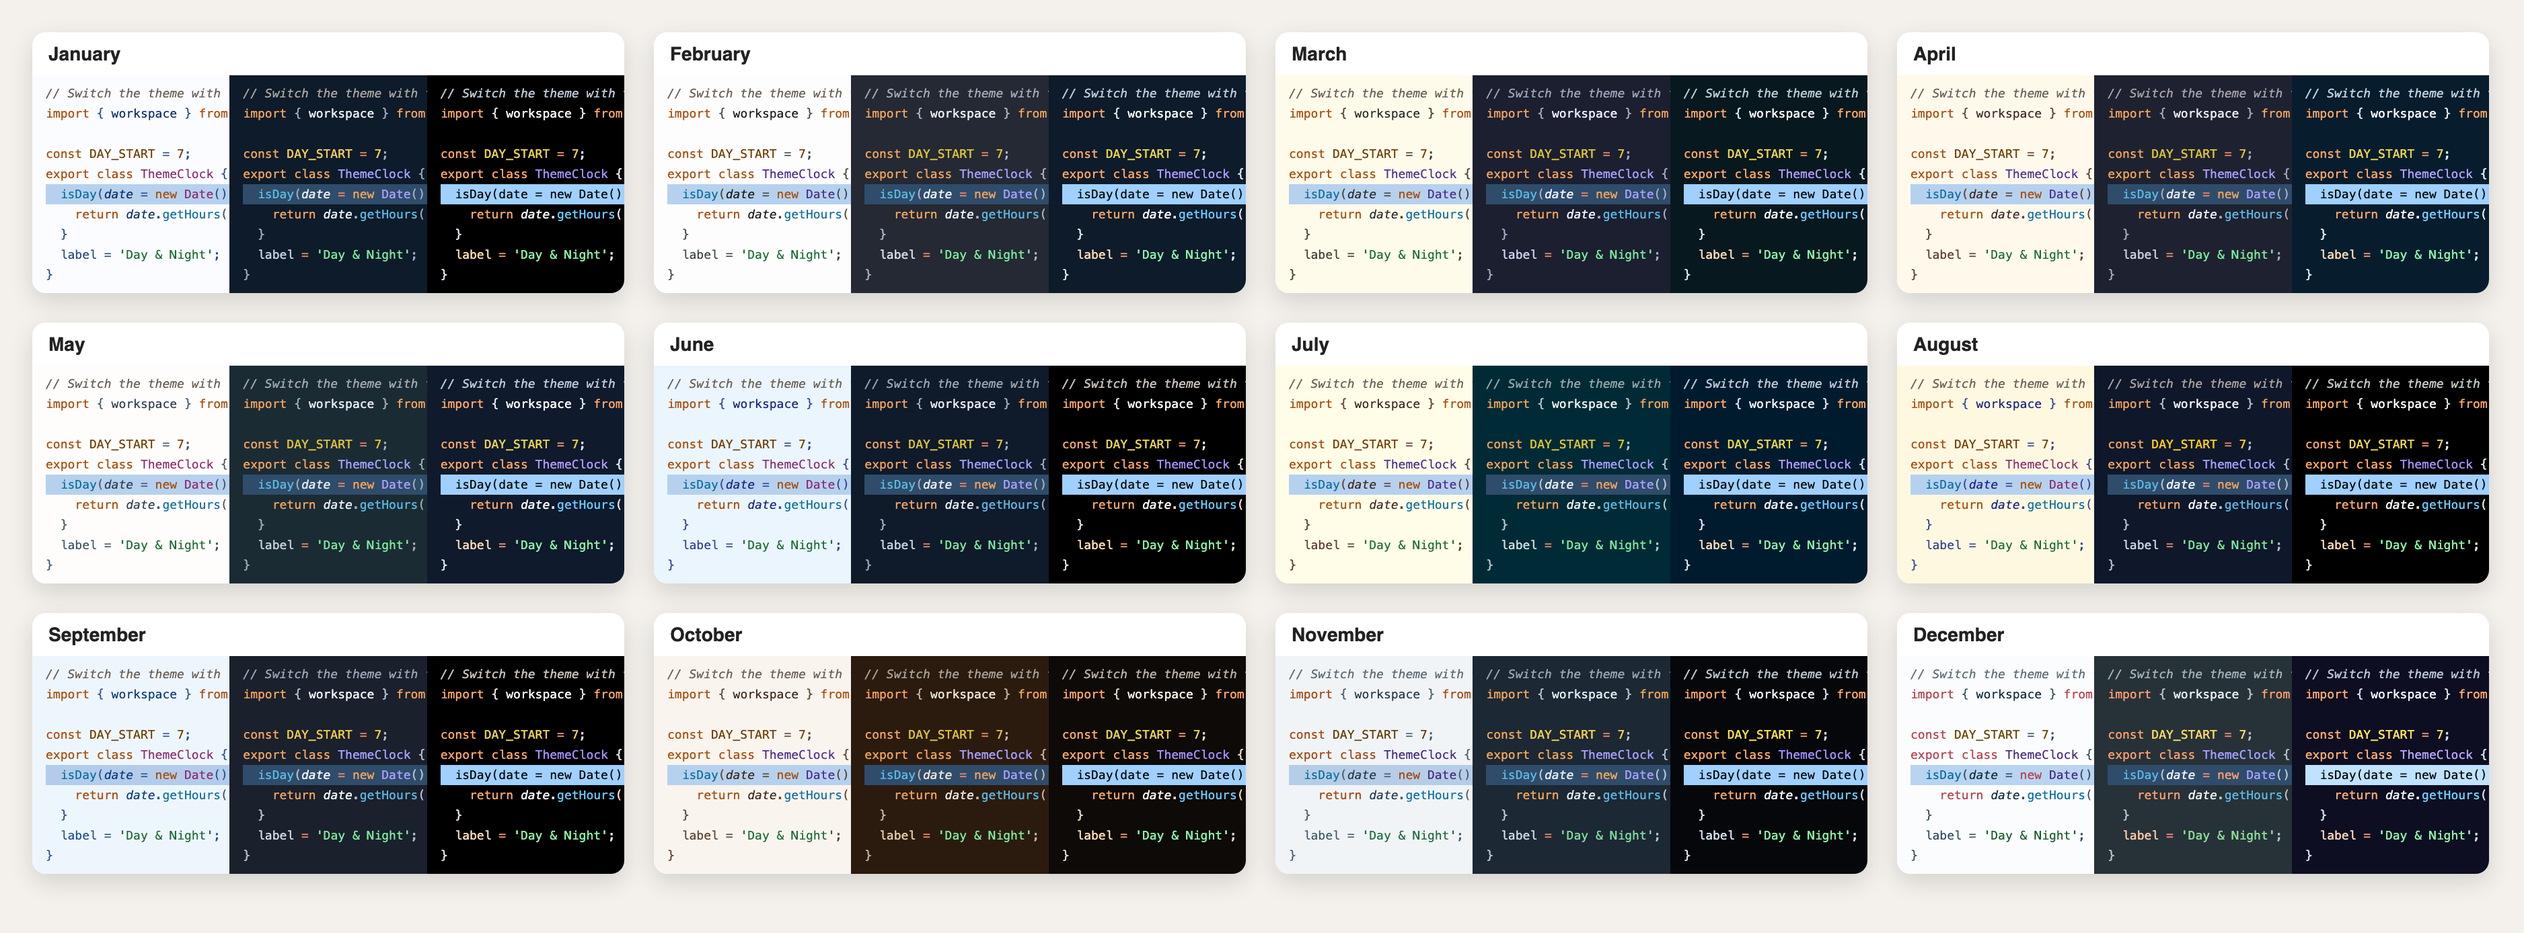
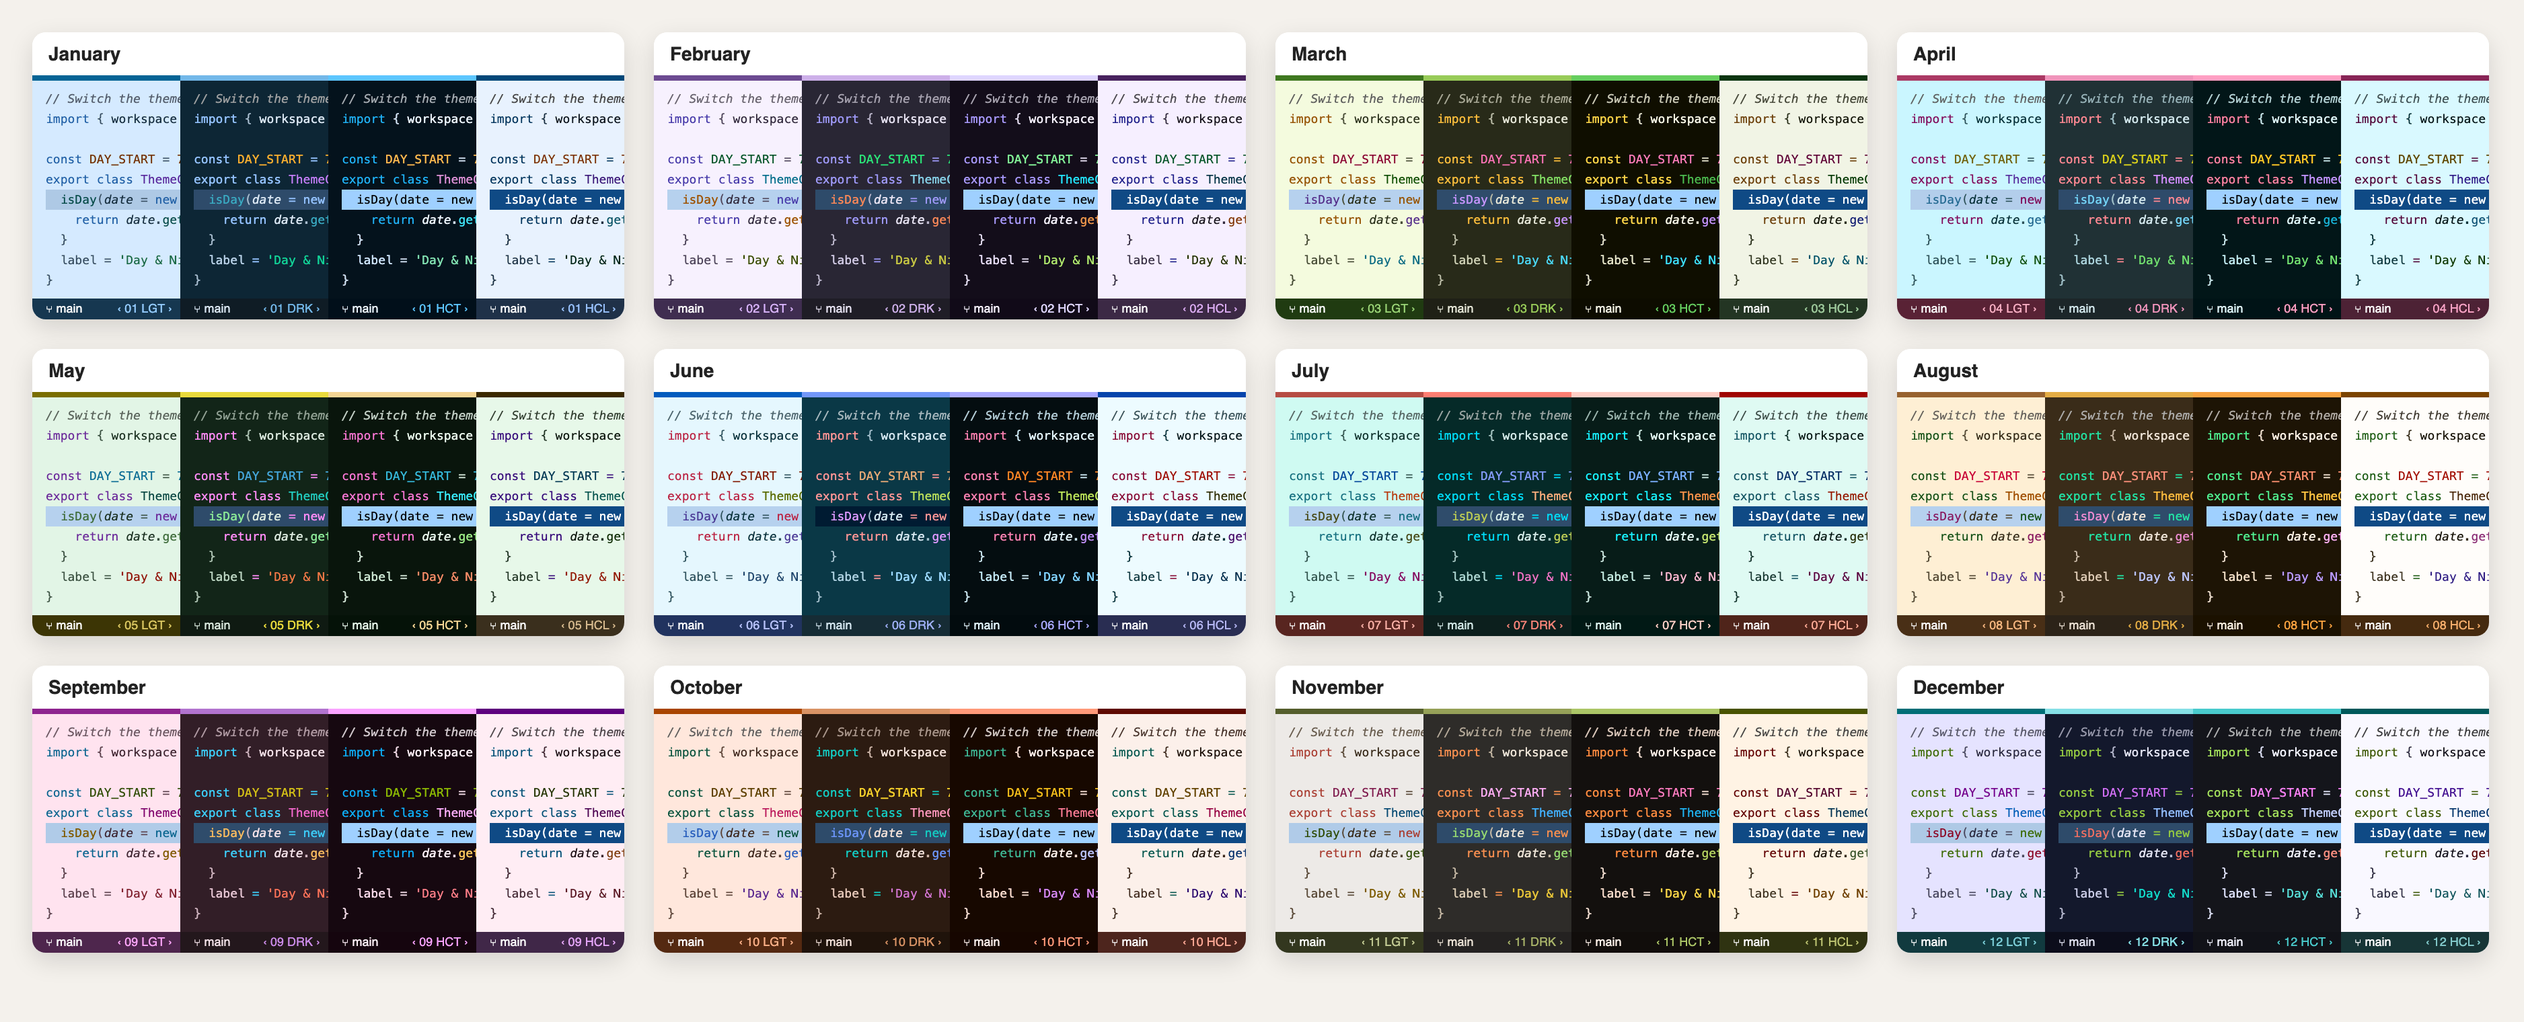
DOCS: README images with the new look
- hero.png and year.png regenerated from the final themes, with High Contrast Light
- The status bar button in the images matches the extension: ‹ 10 LGT ›
- Image descriptions updated in the README and its 9 translations: 48 themes, 4 variants

Refs #33

diff --git a/scripts/themes/preview.py b/scripts/themes/preview.py
@@ -130,7 +130,7 @@ def window_html(month, variant, variant_file, label):
     </div>
   </div>
   <div class=status style="background:{c['statusBar.background']};color:{c['statusBar.foreground']};border-top:1px solid {c['statusBar.border']}">
-    <span>⑂ main</span><span>⚠ 0 ✕ 1</span><span class=right>◐ {STATUS[variant]}</span>
+    <span>⑂ main</span><span>⚠ 0 ✕ 1</span><span class=right style="color:{c['365DayNight.statusBarButton']}">‹ {month:02d} {STATUS[variant]} ›</span>
   </div>
 </div>"""
 
@@ -199,7 +199,7 @@ def year():
             strips.append(f"<div class=variant style=\"border-top:4px solid {c['activityBarBadge.background']}\">"
                           f"<div class=snippet style=\"background:{c['editor.background']}\">{code_html(theme, palette, compact=True)}</div>"
                           f"<div class=mini style=\"background:{c['statusBar.background']};color:{c['statusBar.foreground']}\">"
-                          f"⑂ main<span style=\"color:{c['365DayNight.statusBarButton']}\">◐ {m:02d} {STATUS[v]}</span></div></div>")
+                          f"⑂ main<span style=\"color:{c['365DayNight.statusBarButton']}\">‹ {m:02d} {STATUS[v]} ›</span></div></div>")
         tiles.append(f'<div class=tile><h3>{MONTHS[m - 1]}</h3><div class=strip>{"".join(strips)}</div></div>')
     shoot(f'<div class=grid style="grid-template-columns:repeat(4,440px)">{"".join(tiles)}</div>', 'year.png', 1876, 760)
 

diff --git a/docs/README_ru.md b/docs/README_ru.md
@@ -8,7 +8,7 @@
 
 *Читать на: [English](../README.md) · [Français](README_fr.md) · [Español](README_es.md) · [Deutsch](README_de.md) · [Português](README_pt.md) · [中文](README_zh.md) · [日本語](README_ja.md) · [हिंदी](README_hi.md) · [العربية](README_ar.md)*
 
-![Октябрьские темы — светлая, тёмная и высококонтрастная — в VS Code: проводник, вкладки, подсветка синтаксиса, выделение текста и строка состояния](https://raw.githubusercontent.com/mickaellherminez/365-daynight-vscode-theme-ext/main/assets/screenshots/hero.png)
+![Октябрьские темы — светлая, тёмная, высококонтрастная и светлая высококонтрастная — в VS Code: проводник, вкладки, подсветка синтаксиса, выделение текста и строка состояния](https://raw.githubusercontent.com/mickaellherminez/365-daynight-vscode-theme-ext/main/assets/screenshots/hero.png)
 
 ## Почему вам понравится
 
@@ -47,7 +47,7 @@ code --install-extension mickaellherminez.365-daynight-vscode-theme-ext
 
 ## 12 месяцев
 
-![Предпросмотр 36 тем: светлая, тёмная и высококонтрастная версия для каждого месяца с января по декабрь](https://raw.githubusercontent.com/mickaellherminez/365-daynight-vscode-theme-ext/main/assets/screenshots/year.png)
+![Предпросмотр 48 тем: светлая, тёмная, высококонтрастная и светлая высококонтрастная версия для каждого месяца с января по декабрь](https://raw.githubusercontent.com/mickaellherminez/365-daynight-vscode-theme-ext/main/assets/screenshots/year.png)
 
 | Месяц | Настроение | Светлая | Тёмная | Высокий контраст | Светлый высокий контраст |
 | --- | --- | --- | --- | --- | --- |

diff --git a/docs/README_ar.md b/docs/README_ar.md
@@ -10,7 +10,7 @@
 
 *اقرأ هذه الصفحة بـ: [English](../README.md) · [Français](README_fr.md) · [Español](README_es.md) · [Deutsch](README_de.md) · [Português](README_pt.md) · [Русский](README_ru.md) · [中文](README_zh.md) · [日本語](README_ja.md) · [हिंदी](README_hi.md)*
 
-![سمات أكتوبر الفاتحة والداكنة وعالية التباين في VS Code: المستكشف وعلامات التبويب وتلوين الشيفرة وتحديد النص وشريط الحالة](https://raw.githubusercontent.com/mickaellherminez/365-daynight-vscode-theme-ext/main/assets/screenshots/hero.png)
+![سمات أكتوبر الفاتحة والداكنة وعالية التباين والفاتحة عالية التباين في VS Code: المستكشف وعلامات التبويب وتلوين الشيفرة وتحديد النص وشريط الحالة](https://raw.githubusercontent.com/mickaellherminez/365-daynight-vscode-theme-ext/main/assets/screenshots/hero.png)
 
 ## لماذا ستحبها
 
@@ -49,7 +49,7 @@ code --install-extension mickaellherminez.365-daynight-vscode-theme-ext
 
 ## الأشهر الاثنا عشر
 
-![معاينة السمات الـ 36: نسخة فاتحة وداكنة وعالية التباين لكل شهر من يناير إلى ديسمبر](https://raw.githubusercontent.com/mickaellherminez/365-daynight-vscode-theme-ext/main/assets/screenshots/year.png)
+![معاينة السمات الـ 48: نسخة فاتحة وداكنة وعالية التباين وفاتحة عالية التباين لكل شهر من يناير إلى ديسمبر](https://raw.githubusercontent.com/mickaellherminez/365-daynight-vscode-theme-ext/main/assets/screenshots/year.png)
 
 | الشهر | الأجواء | فاتحة | داكنة | عالية التباين | فاتحة عالية التباين |
 | --- | --- | --- | --- | --- | --- |

diff --git a/docs/README_ja.md b/docs/README_ja.md
@@ -8,7 +8,7 @@
 
 *他の言語で読む：[English](../README.md) · [Français](README_fr.md) · [Español](README_es.md) · [Deutsch](README_de.md) · [Português](README_pt.md) · [Русский](README_ru.md) · [中文](README_zh.md) · [हिंदी](README_hi.md) · [العربية](README_ar.md)*
 
-![VS Code の 10 月のライト・ダーク・ハイコントラストテーマ：エクスプローラー、タブ、シンタックスハイライト、テキスト選択、ステータスバー](https://raw.githubusercontent.com/mickaellherminez/365-daynight-vscode-theme-ext/main/assets/screenshots/hero.png)
+![VS Code の 10 月のライト・ダーク・ハイコントラスト・明るいハイコントラストテーマ：エクスプローラー、タブ、シンタックスハイライト、テキスト選択、ステータスバー](https://raw.githubusercontent.com/mickaellherminez/365-daynight-vscode-theme-ext/main/assets/screenshots/hero.png)
 
 ## おすすめの理由
 
@@ -47,7 +47,7 @@ Visual Studio Code 1.96 以降が必要です。
 
 ## 12 か月
 
-![36 種類のテーマのプレビュー：1 月から 12 月まで各月のライト・ダーク・ハイコントラスト版](https://raw.githubusercontent.com/mickaellherminez/365-daynight-vscode-theme-ext/main/assets/screenshots/year.png)
+![48 種類のテーマのプレビュー：1 月から 12 月まで各月のライト・ダーク・ハイコントラスト・明るいハイコントラスト版](https://raw.githubusercontent.com/mickaellherminez/365-daynight-vscode-theme-ext/main/assets/screenshots/year.png)
 
 | 月 | 雰囲気 | ライト | ダーク | ハイコントラスト | 明るいハイコントラスト |
 | --- | --- | --- | --- | --- | --- |

diff --git a/docs/README_fr.md b/docs/README_fr.md
@@ -8,7 +8,7 @@
 
 *Lire cette page en : [English](../README.md) · [Español](README_es.md) · [Deutsch](README_de.md) · [Português](README_pt.md) · [Русский](README_ru.md) · [中文](README_zh.md) · [日本語](README_ja.md) · [हिंदी](README_hi.md) · [العربية](README_ar.md)*
 
-![Thèmes d'octobre clair, sombre et contraste élevé dans VS Code : explorateur, onglets, coloration syntaxique, sélection de texte et barre d'état](https://raw.githubusercontent.com/mickaellherminez/365-daynight-vscode-theme-ext/main/assets/screenshots/hero.png)
+![Thèmes d'octobre clair, sombre, contraste élevé et contraste élevé clair dans VS Code : explorateur, onglets, coloration syntaxique, sélection de texte et barre d'état](https://raw.githubusercontent.com/mickaellherminez/365-daynight-vscode-theme-ext/main/assets/screenshots/hero.png)
 
 ## Pourquoi vous allez l'aimer
 
@@ -47,7 +47,7 @@ Pour essayer un autre mois, cliquez sur les flèches qui l'entourent (`‹ 10 DR
 
 ## Les 12 mois
 
-![Aperçu des 36 thèmes : une version claire, sombre et à contraste élevé pour chaque mois, de janvier à décembre](https://raw.githubusercontent.com/mickaellherminez/365-daynight-vscode-theme-ext/main/assets/screenshots/year.png)
+![Aperçu des 48 thèmes : une version claire, sombre, à contraste élevé et à contraste élevé claire pour chaque mois, de janvier à décembre](https://raw.githubusercontent.com/mickaellherminez/365-daynight-vscode-theme-ext/main/assets/screenshots/year.png)
 
 | Mois | Ambiance | Clair | Sombre | Contraste élevé | Contraste élevé clair |
 | --- | --- | --- | --- | --- | --- |

diff --git a/docs/README_es.md b/docs/README_es.md
@@ -8,7 +8,7 @@
 
 *Leer esta página en: [English](../README.md) · [Français](README_fr.md) · [Deutsch](README_de.md) · [Português](README_pt.md) · [Русский](README_ru.md) · [中文](README_zh.md) · [日本語](README_ja.md) · [हिंदी](README_hi.md) · [العربية](README_ar.md)*
 
-![Temas de octubre claro, oscuro y de alto contraste en VS Code: explorador, pestañas, resaltado de sintaxis, selección de texto y barra de estado](https://raw.githubusercontent.com/mickaellherminez/365-daynight-vscode-theme-ext/main/assets/screenshots/hero.png)
+![Temas de octubre claro, oscuro, de alto contraste y de alto contraste claro en VS Code: explorador, pestañas, resaltado de sintaxis, selección de texto y barra de estado](https://raw.githubusercontent.com/mickaellherminez/365-daynight-vscode-theme-ext/main/assets/screenshots/hero.png)
 
 ## Por qué te va a gustar
 
@@ -47,7 +47,7 @@ Para probar otro mes, haz clic en las flechas que lo rodean (`‹ 10 DRK ›`). 
 
 ## Los 12 meses
 
-![Vista previa de los 36 temas: una versión clara, oscura y de alto contraste para cada mes, de enero a diciembre](https://raw.githubusercontent.com/mickaellherminez/365-daynight-vscode-theme-ext/main/assets/screenshots/year.png)
+![Vista previa de los 48 temas: una versión clara, oscura, de alto contraste y de alto contraste claro para cada mes, de enero a diciembre](https://raw.githubusercontent.com/mickaellherminez/365-daynight-vscode-theme-ext/main/assets/screenshots/year.png)
 
 | Mes | Ambiente | Claro | Oscuro | Alto contraste | Alto contraste claro |
 | --- | --- | --- | --- | --- | --- |

diff --git a/README.md b/README.md
@@ -9,7 +9,7 @@
 
 *Read this page in: [Français](docs/README_fr.md) · [Español](docs/README_es.md) · [Deutsch](docs/README_de.md) · [Português](docs/README_pt.md) · [Русский](docs/README_ru.md) · [中文](docs/README_zh.md) · [日本語](docs/README_ja.md) · [हिंदी](docs/README_hi.md) · [العربية](docs/README_ar.md)*
 
-![October Light, Dark and High Contrast themes in VS Code: explorer, tabs, syntax highlighting, text selection and status bar](https://raw.githubusercontent.com/mickaellherminez/365-daynight-vscode-theme-ext/main/assets/screenshots/hero.png)
+![October Light, Dark, High Contrast and High Contrast Light themes in VS Code: explorer, tabs, syntax highlighting, text selection and status bar](https://raw.githubusercontent.com/mickaellherminez/365-daynight-vscode-theme-ext/main/assets/screenshots/hero.png)
 
 ## Why you'll like it
 
@@ -48,7 +48,7 @@ To try another month, click the arrows around it (`‹ 10 DRK ›`). The number 
 
 ## The 12 months
 
-![Preview of the 36 themes: a Light, Dark and High Contrast version for each month from January to December](https://raw.githubusercontent.com/mickaellherminez/365-daynight-vscode-theme-ext/main/assets/screenshots/year.png)
+![Preview of the 48 themes: a Light, Dark, High Contrast and High Contrast Light version for each month from January to December](https://raw.githubusercontent.com/mickaellherminez/365-daynight-vscode-theme-ext/main/assets/screenshots/year.png)
 
 | Month | Mood | Light | Dark | High Contrast | High Contrast Light |
 | --- | --- | --- | --- | --- | --- |

diff --git a/docs/README_pt.md b/docs/README_pt.md
@@ -8,7 +8,7 @@
 
 *Ler esta página em: [English](../README.md) · [Français](README_fr.md) · [Español](README_es.md) · [Deutsch](README_de.md) · [Русский](README_ru.md) · [中文](README_zh.md) · [日本語](README_ja.md) · [हिंदी](README_hi.md) · [العربية](README_ar.md)*
 
-![Temas de outubro claro, escuro e de alto contraste no VS Code: explorador, abas, realce de sintaxe, seleção de texto e barra de status](https://raw.githubusercontent.com/mickaellherminez/365-daynight-vscode-theme-ext/main/assets/screenshots/hero.png)
+![Temas de outubro claro, escuro, de alto contraste e de alto contraste claro no VS Code: explorador, abas, realce de sintaxe, seleção de texto e barra de status](https://raw.githubusercontent.com/mickaellherminez/365-daynight-vscode-theme-ext/main/assets/screenshots/hero.png)
 
 ## Por que você vai gostar
 
@@ -47,7 +47,7 @@ Para experimentar outro mês, clique nas setas ao redor dele (`‹ 10 DRK ›`).
 
 ## Os 12 meses
 
-![Prévia dos 36 temas: uma versão clara, escura e de alto contraste para cada mês, de janeiro a dezembro](https://raw.githubusercontent.com/mickaellherminez/365-daynight-vscode-theme-ext/main/assets/screenshots/year.png)
+![Prévia dos 48 temas: uma versão clara, escura, de alto contraste e de alto contraste claro para cada mês, de janeiro a dezembro](https://raw.githubusercontent.com/mickaellherminez/365-daynight-vscode-theme-ext/main/assets/screenshots/year.png)
 
 | Mês | Ambiente | Claro | Escuro | Alto contraste | Alto contraste claro |
 | --- | --- | --- | --- | --- | --- |

diff --git a/docs/README_de.md b/docs/README_de.md
@@ -8,7 +8,7 @@
 
 *Diese Seite lesen auf: [English](../README.md) · [Français](README_fr.md) · [Español](README_es.md) · [Português](README_pt.md) · [Русский](README_ru.md) · [中文](README_zh.md) · [日本語](README_ja.md) · [हिंदी](README_hi.md) · [العربية](README_ar.md)*
 
-![Oktober-Themes hell, dunkel und kontrastreich in VS Code: Explorer, Tabs, Syntaxhervorhebung, Textauswahl und Statusleiste](https://raw.githubusercontent.com/mickaellherminez/365-daynight-vscode-theme-ext/main/assets/screenshots/hero.png)
+![Oktober-Themes hell, dunkel, kontrastreich und hell kontrastreich in VS Code: Explorer, Tabs, Syntaxhervorhebung, Textauswahl und Statusleiste](https://raw.githubusercontent.com/mickaellherminez/365-daynight-vscode-theme-ext/main/assets/screenshots/hero.png)
 
 ## Warum es dir gefallen wird
 
@@ -47,7 +47,7 @@ Um einen anderen Monat auszuprobieren, klicke auf die Pfeile daneben (`‹ 10 DR
 
 ## Die 12 Monate
 
-![Vorschau der 36 Themes: eine helle, dunkle und kontrastreiche Version für jeden Monat von Januar bis Dezember](https://raw.githubusercontent.com/mickaellherminez/365-daynight-vscode-theme-ext/main/assets/screenshots/year.png)
+![Vorschau der 48 Themes: eine helle, dunkle, kontrastreiche und hell kontrastreiche Version für jeden Monat von Januar bis Dezember](https://raw.githubusercontent.com/mickaellherminez/365-daynight-vscode-theme-ext/main/assets/screenshots/year.png)
 
 | Monat | Stimmung | Hell | Dunkel | Kontrastreich | Hell kontrastreich |
 | --- | --- | --- | --- | --- | --- |

diff --git a/docs/README_zh.md b/docs/README_zh.md
@@ -8,7 +8,7 @@
 
 *其他语言：[English](../README.md) · [Français](README_fr.md) · [Español](README_es.md) · [Deutsch](README_de.md) · [Português](README_pt.md) · [Русский](README_ru.md) · [日本語](README_ja.md) · [हिंदी](README_hi.md) · [العربية](README_ar.md)*
 
-![VS Code 中十月的浅色、深色和高对比度主题：资源管理器、标签页、语法高亮、文本选择和状态栏](https://raw.githubusercontent.com/mickaellherminez/365-daynight-vscode-theme-ext/main/assets/screenshots/hero.png)
+![VS Code 中十月的浅色、深色、高对比度和浅色高对比度主题：资源管理器、标签页、语法高亮、文本选择和状态栏](https://raw.githubusercontent.com/mickaellherminez/365-daynight-vscode-theme-ext/main/assets/screenshots/hero.png)
 
 ## 你会喜欢它的理由
 
@@ -47,7 +47,7 @@ code --install-extension mickaellherminez.365-daynight-vscode-theme-ext
 
 ## 12 个月
 
-![36 款主题预览：一月到十二月每个月的浅色、深色和高对比度版本](https://raw.githubusercontent.com/mickaellherminez/365-daynight-vscode-theme-ext/main/assets/screenshots/year.png)
+![48 款主题预览：一月到十二月每个月的浅色、深色、高对比度和浅色高对比度版本](https://raw.githubusercontent.com/mickaellherminez/365-daynight-vscode-theme-ext/main/assets/screenshots/year.png)
 
 | 月份 | 氛围 | 浅色 | 深色 | 高对比度 | 浅色高对比度 |
 | --- | --- | --- | --- | --- | --- |
